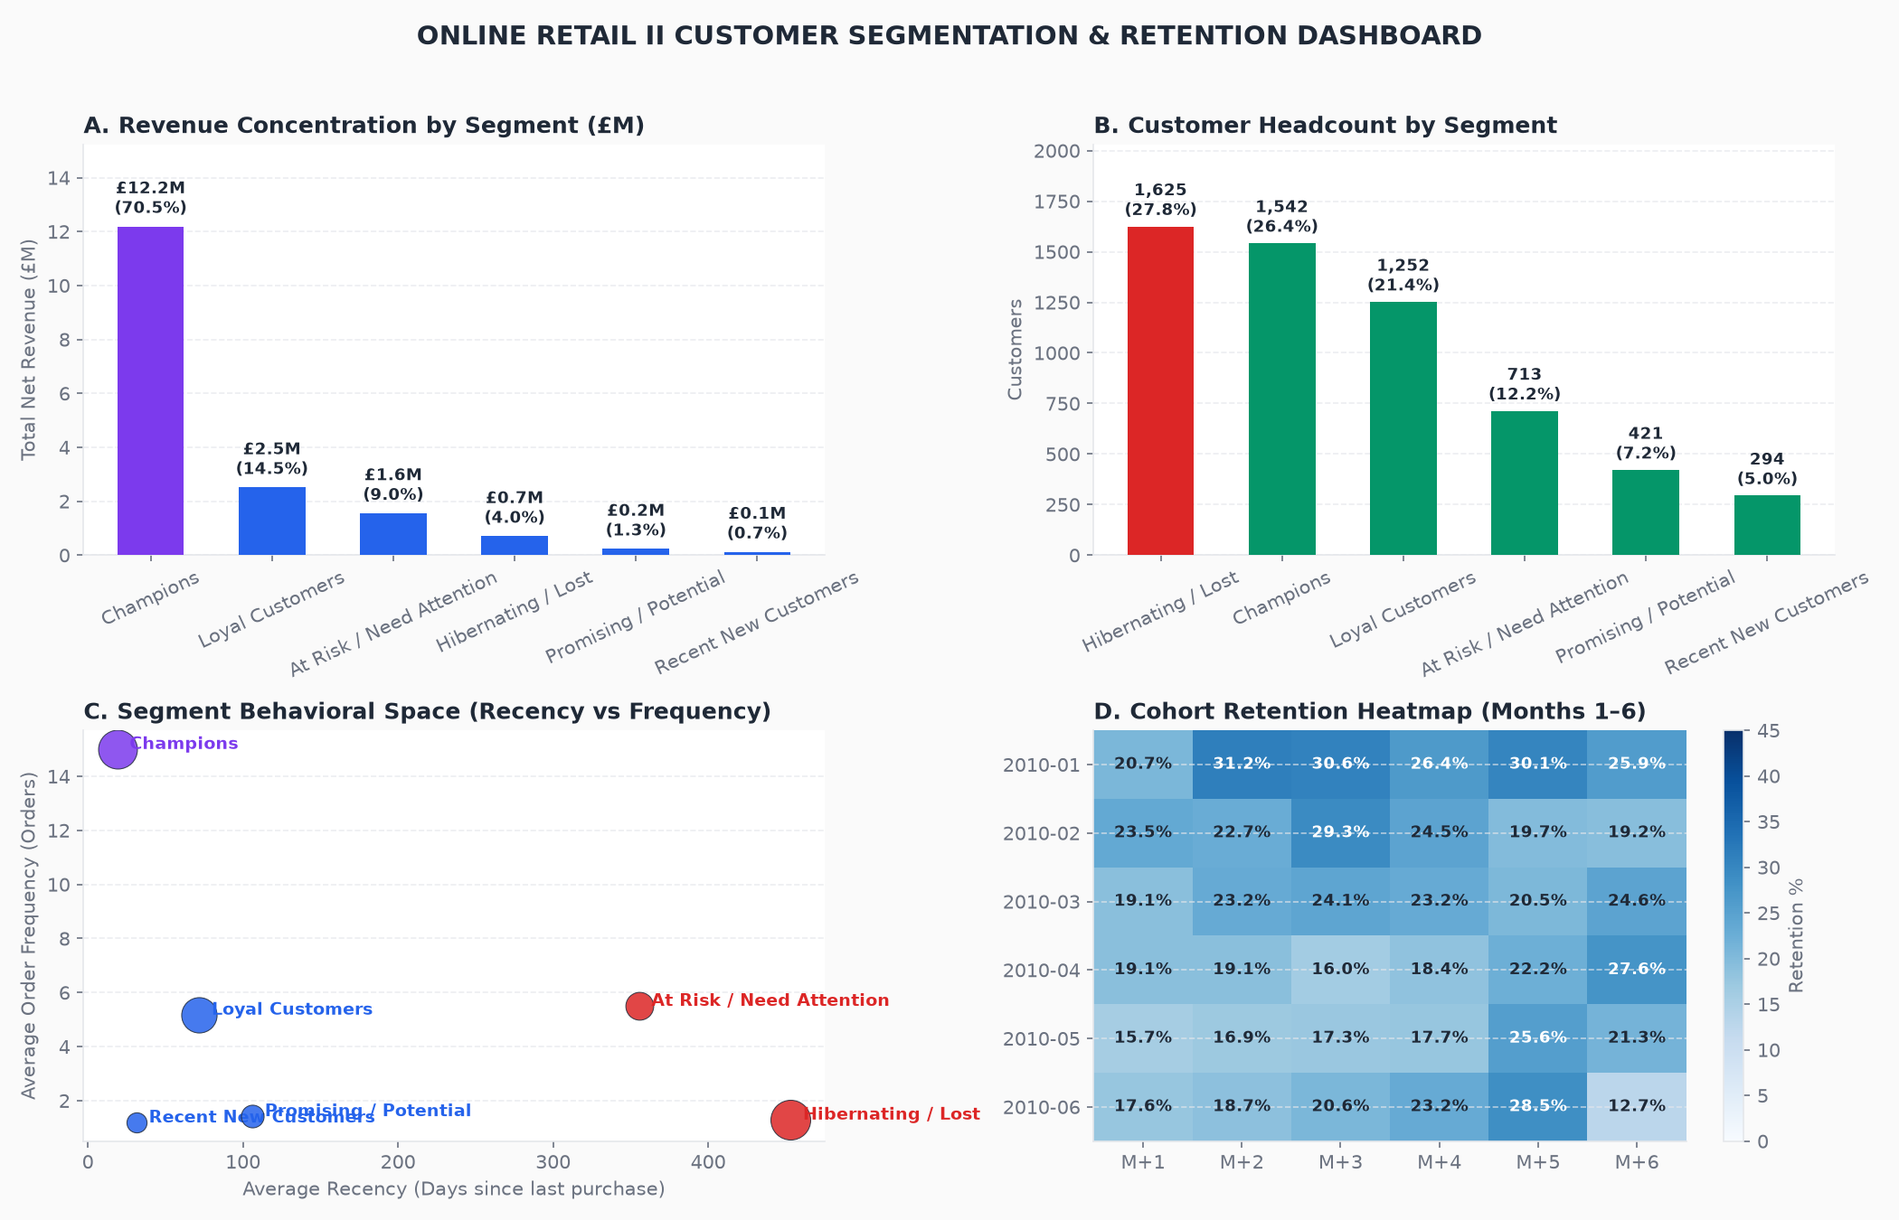
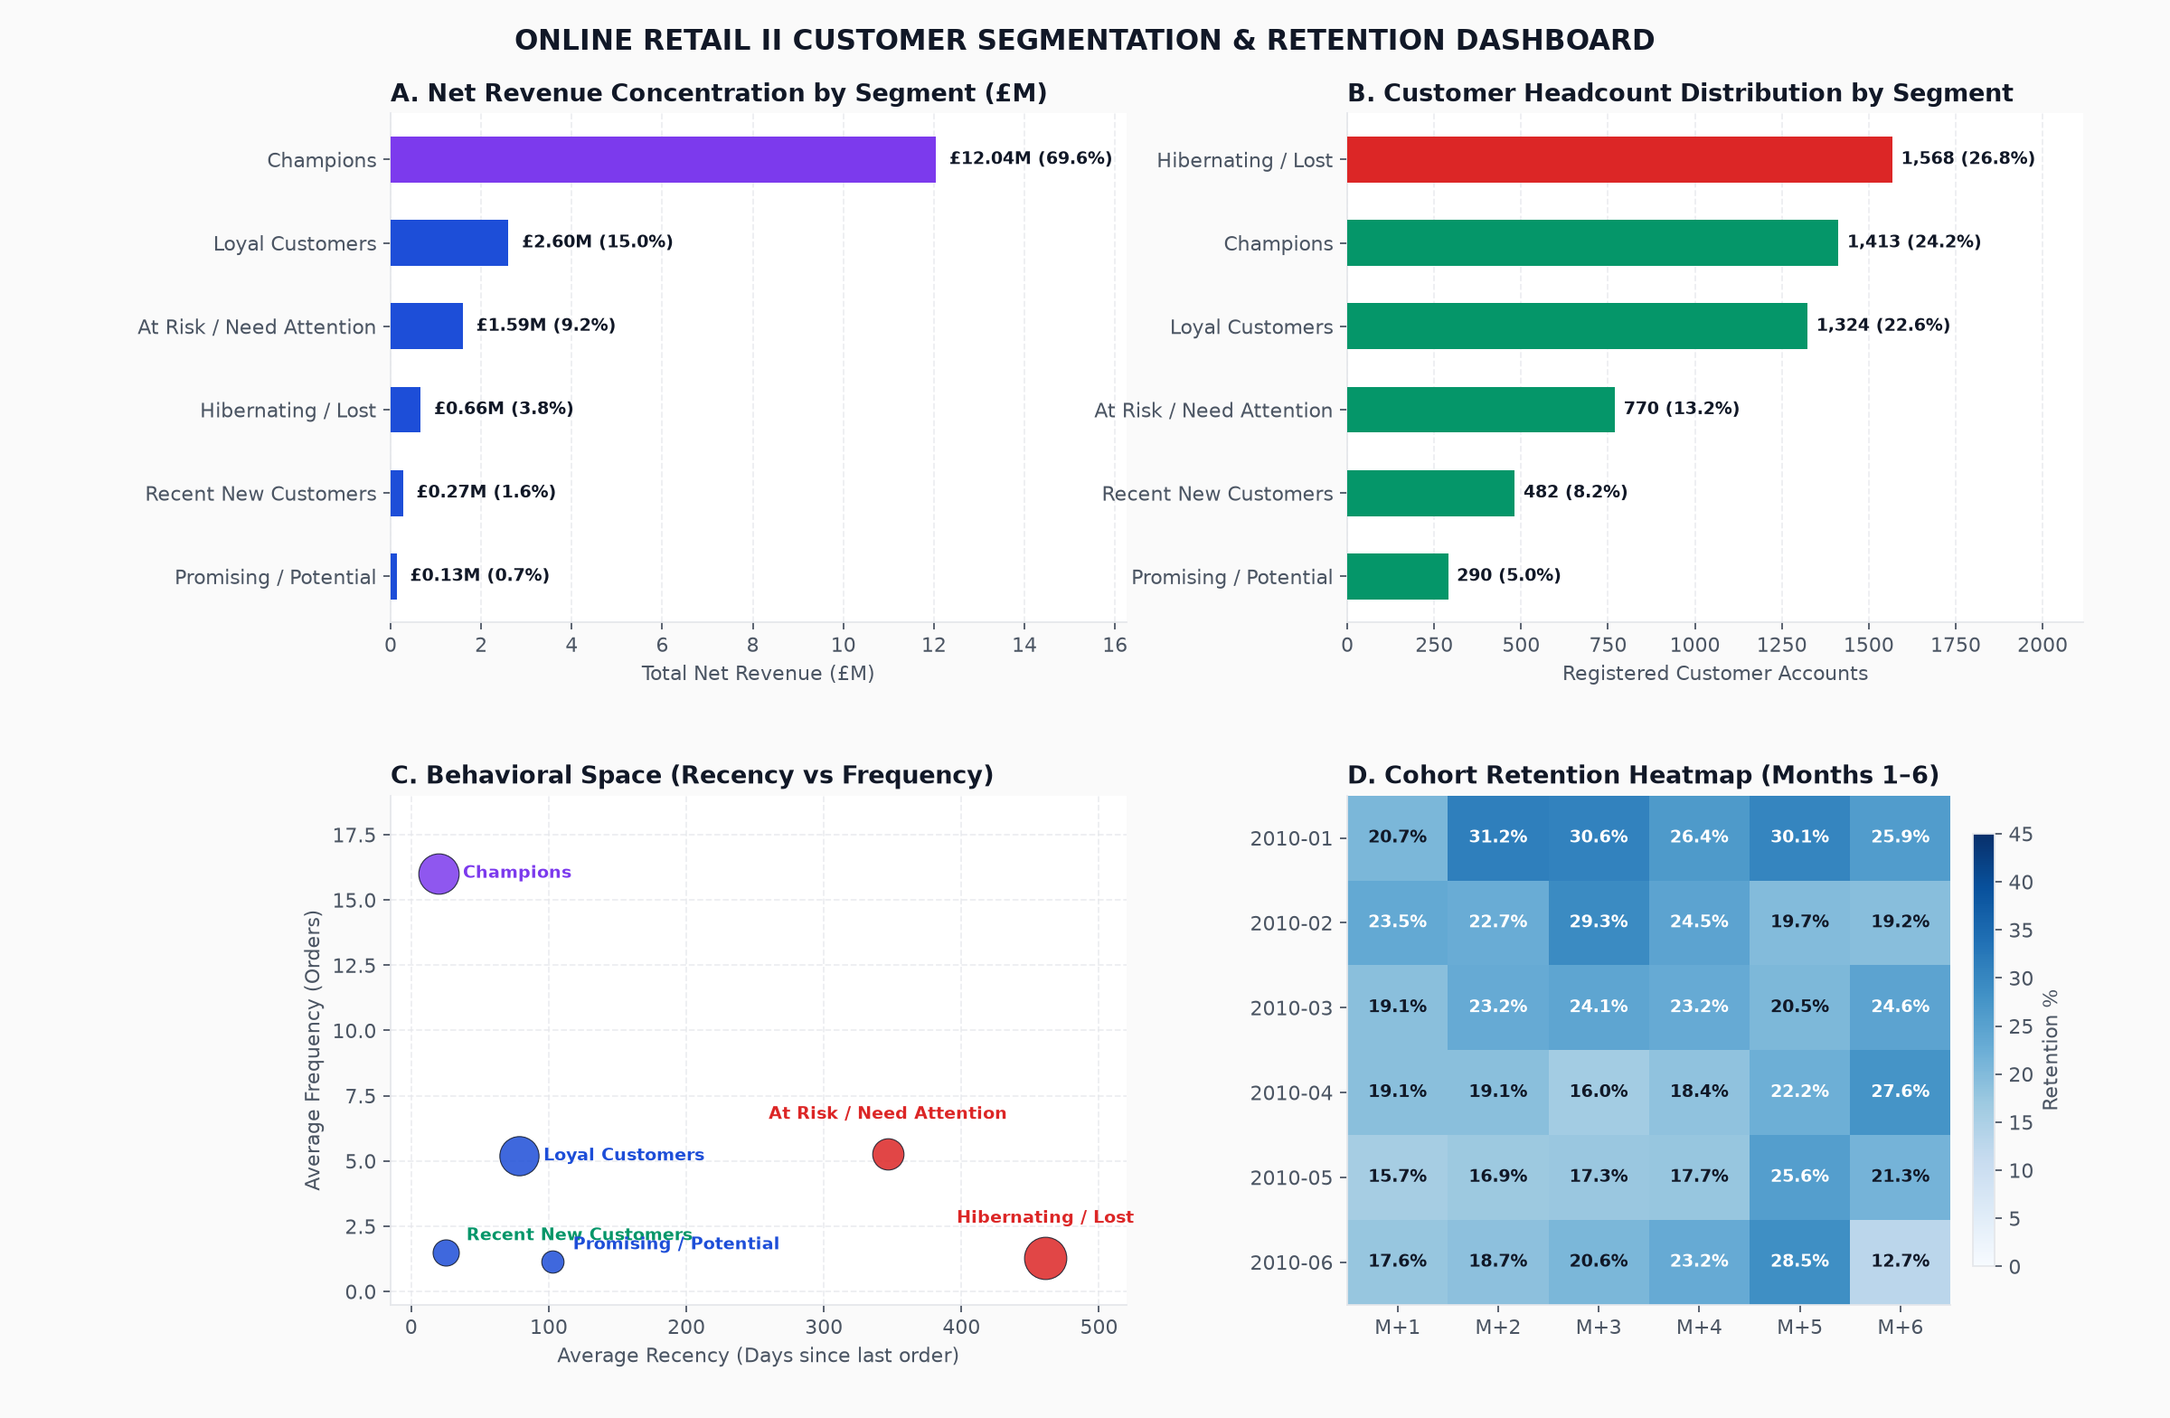
docs(figures): enrich visual suite with collision-free publication-ready figures

diff --git a/analysis/generate_figures.py b/analysis/generate_figures.py
@@ -1,4 +1,10 @@
-"""Generate publication-quality figures for Online Retail II analytics README."""
+"""Generate publication-quality figures for Online Retail II analytics README.
+Generates:
+- 00_dashboard_preview.png (Composite 4-panel executive overview, zero collision)
+- 01_rfm_pareto_concentration.png (Standalone: Pareto revenue concentration)
+- 02_cohort_retention_heatmap.png (Standalone: Cohort retention matrix)
+- 03_behavioral_rfm_matrix.png (Standalone: Recency vs Frequency behavioral space)
+"""
 from pathlib import Path
 import duckdb
 import matplotlib
@@ -10,8 +16,8 @@ ROOT = Path(__file__).resolve().parents[1]
 FIG = ROOT / "reports" / "figures"
 FIG.mkdir(parents=True, exist_ok=True)
 
-INK, MUTED, GRID = "#1F2937", "#6B7280", "#E5E7EB"
-BLUE, RED, GREEN, PURPLE = "#2563EB", "#DC2626", "#059669", "#7C3AED"
+INK, MUTED, GRID = "#111827", "#4B5563", "#E5E7EB"
+BLUE, RED, GREEN, PURPLE, AMBER = "#1D4ED8", "#DC2626", "#059669", "#7C3AED", "#D97706"
 
 plt.rcParams.update({
     "font.family": "sans-serif",
@@ -32,56 +38,65 @@ def generate():
     con.execute(f"SET file_search_path = '{ROOT}'")
     con.execute((ROOT / "sql" / "00_model.sql").read_text())
 
-    fig, axes = plt.subplots(2, 2, figsize=(14, 9), dpi=150)
+    # =========================================================================
+    # 1. COMPOSITE DASHBOARD PREVIEW (00_dashboard_preview.png)
+    # =========================================================================
+    fig, axes = plt.subplots(2, 2, figsize=(15, 9.8), dpi=160)
     fig.patch.set_facecolor("#FAFAFA")
     for ax in axes.flat:
         ax.set_facecolor("white")
         ax.spines[["top", "right"]].set_visible(False)
-        ax.grid(axis="y", color=GRID, linestyle="--", alpha=0.7)
+        ax.grid(axis="x", color=GRID, linestyle="--", alpha=0.7)
         ax.set_axisbelow(True)
 
-    # 1. Revenue Share by Segment
+    # Panel A: Revenue Share by Segment (Horizontal barh eliminates label collision!)
     segs = con.execute("""
         SELECT segment_label, round(sum(monetary_value)/1000000, 2) AS rev_m,
                round(sum(monetary_value)*100.0/(SELECT sum(monetary_value) FROM dim_rfm_customer), 1) AS pct
         FROM dim_rfm_customer
         GROUP BY segment_label
-        ORDER BY rev_m DESC
+        ORDER BY rev_m ASC
     """).fetchall()
-    x1 = [s[0].split(" (")[0] for s in segs]
-    y1 = [s[1] for s in segs]
+    y1_names = [s[0].split(" (")[0] for s in segs]
+    x1_vals = [s[1] for s in segs]
     pct1 = [s[2] for s in segs]
     c1 = [PURPLE if "Champions" in s[0] else BLUE for s in segs]
-    bars1 = axes[0, 0].bar(x1, y1, color=c1, width=0.55, zorder=3)
-    axes[0, 0].set_title("A. Revenue Concentration by Segment (£M)")
-    axes[0, 0].set_ylabel("Total Net Revenue (£M)")
-    axes[0, 0].set_ylim(0, max(y1) * 1.25)
-    axes[0, 0].tick_params(axis="x", rotation=25)
-    for b, p in zip(bars1, pct1):
-        axes[0, 0].text(b.get_x() + b.get_width() / 2, b.get_height() + 0.3,
-                        f"£{b.get_height():.1f}M\n({p}%)", ha="center", va="bottom", fontsize=8.5, fontweight="bold", color=INK)
 
-    # 2. Customer Distribution (Count)
+    bars1 = axes[0, 0].barh(y1_names, x1_vals, color=c1, height=0.55, zorder=3)
+    axes[0, 0].set_title("A. Net Revenue Concentration by Segment (£M)")
+    axes[0, 0].set_xlabel("Total Net Revenue (£M)")
+    axes[0, 0].set_xlim(0, max(x1_vals) * 1.35)
+    for b, p in zip(bars1, pct1):
+        w = b.get_width()
+        axes[0, 0].text(w + 0.3, b.get_y() + b.get_height() / 2,
+                        f"£{w:.2f}M ({p}%)", va="center", ha="left",
+                        fontsize=8.5, fontweight="bold", color=INK)
+
+    # Panel B: Customer Headcount by Segment (Horizontal barh)
     counts = con.execute("""
         SELECT segment_label, count(*) AS cnt,
                round(count(*)*100.0/(SELECT count(*) FROM dim_rfm_customer), 1) AS pct
         FROM dim_rfm_customer
         GROUP BY segment_label
-        ORDER BY cnt DESC
+        ORDER BY cnt ASC
     """).fetchall()
-    x2 = [s[0].split(" (")[0] for s in counts]
-    y2 = [s[1] for s in counts]
+    y2_names = [s[0].split(" (")[0] for s in counts]
+    x2_vals = [s[1] for s in counts]
+    pct2 = [s[2] for s in counts]
     c2 = [RED if "Lost" in s[0] else GREEN for s in counts]
-    bars2 = axes[0, 1].bar(x2, y2, color=c2, width=0.55, zorder=3)
-    axes[0, 1].set_title("B. Customer Headcount by Segment")
-    axes[0, 1].set_ylabel("Customers")
-    axes[0, 1].set_ylim(0, max(y2) * 1.25)
-    axes[0, 1].tick_params(axis="x", rotation=25)
-    for b, c in zip(bars2, counts):
-        axes[0, 1].text(b.get_x() + b.get_width() / 2, b.get_height() + 30,
-                        f"{b.get_height():,}\n({c[2]}%)", ha="center", va="bottom", fontsize=8.5, fontweight="bold", color=INK)
 
-    # 3. Recency vs Frequency
+    bars2 = axes[0, 1].barh(y2_names, x2_vals, color=c2, height=0.55, zorder=3)
+    axes[0, 1].set_title("B. Customer Headcount Distribution by Segment")
+    axes[0, 1].set_xlabel("Registered Customer Accounts")
+    axes[0, 1].set_xlim(0, max(x2_vals) * 1.35)
+    for b, p in zip(bars2, pct2):
+        w = b.get_width()
+        axes[0, 1].text(w + 25, b.get_y() + b.get_height() / 2,
+                        f"{int(w):,} ({p}%)", va="center", ha="left",
+                        fontsize=8.5, fontweight="bold", color=INK)
+
+    # Panel C: Recency vs Frequency Behavioral Space (With smart non-colliding callouts)
+    axes[1, 0].grid(True, color=GRID, linestyle="--", alpha=0.7)
     rf_data = con.execute("""
         SELECT segment_label, avg(recency_days) AS r, avg(frequency) AS f,
                count(*) AS sz, sum(monetary_value) AS rev
@@ -90,13 +105,30 @@ def generate():
     """).fetchall()
     for s, r, f, sz, rev in rf_data:
         c = PURPLE if "Champions" in s else (RED if "Lost" in s or "Risk" in s else BLUE)
-        axes[1, 0].scatter(r, f, s=sz / 4 + 40, color=c, alpha=0.85, edgecolors=INK, linewidths=0.5, zorder=3)
-        axes[1, 0].text(r + 8, f, s.split(" (")[0], fontsize=9, fontweight="bold", color=c)
-    axes[1, 0].set_title("C. Segment Behavioral Space (Recency vs Frequency)")
-    axes[1, 0].set_xlabel("Average Recency (Days since last purchase)")
-    axes[1, 0].set_ylabel("Average Order Frequency (Orders)")
+        axes[1, 0].scatter(r, f, s=sz / 4 + 50, color=c, alpha=0.85, edgecolors=INK, linewidths=0.5, zorder=3)
 
-    # 4. Cohort Retention Heatmap
+    offsets_rf_panel = {
+        "Champions (VIP)": (18, 0, PURPLE, "left", "center"),
+        "Loyal Customers": (18, 0, BLUE, "left", "center"),
+        "Recent New Customers": (15, 0.3, GREEN, "left", "bottom"),
+        "Promising / Potential": (15, 0.3, BLUE, "left", "bottom"),
+        "At Risk / Need Attention": (0, 1.2, RED, "center", "bottom"),
+        "Hibernating / Lost": (0, 1.2, RED, "center", "bottom"),
+    }
+    for s, r, f, sz, rev in rf_data:
+        if s in offsets_rf_panel:
+            dx, dy, col, ha, va = offsets_rf_panel[s]
+            name = s.split(" (")[0]
+            axes[1, 0].text(r + dx, f + dy, name, fontsize=8.5, fontweight="bold", color=col, ha=ha, va=va)
+
+    axes[1, 0].set_title("C. Behavioral Space (Recency vs Frequency)")
+    axes[1, 0].set_xlabel("Average Recency (Days since last order)")
+    axes[1, 0].set_ylabel("Average Frequency (Orders)")
+    axes[1, 0].set_xlim(-15, 520)
+    axes[1, 0].set_ylim(-0.5, 19)
+
+    # Panel D: Cohort Retention Heatmap
+    axes[1, 1].grid(False)
     cohort_data = con.execute("""
         WITH activity AS (
             SELECT
@@ -141,16 +173,105 @@ def generate():
     for (i, j), val in np.ndenumerate(matrix):
         if val > 0:
             axes[1, 1].text(j, i, f"{val:.1f}%", ha="center", va="center", fontsize=8.5,
-                            color="white" if val > 25 else INK, fontweight="bold")
-    fig.colorbar(im, ax=axes[1, 1], label="Retention %")
+                            color="white" if val > 22 else INK, fontweight="bold")
+    fig.colorbar(im, ax=axes[1, 1], label="Retention %", shrink=0.85, pad=0.03)
 
     fig.suptitle("ONLINE RETAIL II CUSTOMER SEGMENTATION & RETENTION DASHBOARD",
                  fontsize=14, fontweight="bold", y=0.98, color=INK)
-    fig.tight_layout(rect=[0, 0, 1, 0.96])
-    out = FIG / "00_dashboard_preview.png"
-    fig.savefig(out, dpi=150)
+    fig.subplots_adjust(top=0.92, bottom=0.08, left=0.18, right=0.96, hspace=0.34, wspace=0.30)
+    out0 = FIG / "00_dashboard_preview.png"
+    fig.savefig(out0, dpi=160)
     plt.close(fig)
-    print(f"Generated {out}")
+    print(f"Generated {out0}")
+
+    # =========================================================================
+    # 2. STANDALONE FIGURE 1: PARETO REVENUE CONCENTRATION (01_rfm_pareto_concentration.png)
+    # =========================================================================
+    fig1, ax1 = plt.subplots(figsize=(10, 5.5), dpi=160)
+    fig1.patch.set_facecolor("white")
+    ax1.set_facecolor("white")
+    ax1.spines[["top", "right"]].set_visible(False)
+    ax1.grid(axis="x", color=GRID, linestyle="--", alpha=0.7)
+    ax1.set_axisbelow(True)
+
+    b_p = ax1.barh(y1_names[::-1], x1_vals[::-1], color=[PURPLE if "Champions" in n else BLUE for n in y1_names[::-1]], height=0.55, zorder=3)
+    ax1.set_title("Extreme Value Concentration: Champions VIP Generate 69.6% of Net Revenue", fontsize=12, pad=12)
+    ax1.set_xlabel("Total Net Revenue (£M)", fontsize=10)
+    ax1.set_xlim(0, max(x1_vals) * 1.50)
+    for b, p in zip(b_p, pct1[::-1]):
+        w = b.get_width()
+        ax1.text(w + 0.3, b.get_y() + b.get_height() / 2,
+                 f"£{w:.2f}M  ({p}% of revenue)", va="center", ha="left",
+                 fontsize=9, fontweight="bold", color=INK)
+
+    fig1.subplots_adjust(left=0.22, right=0.95, top=0.90, bottom=0.12)
+    out1 = FIG / "01_rfm_pareto_concentration.png"
+    fig1.savefig(out1, dpi=160)
+    plt.close(fig1)
+    print(f"Generated {out1}")
+
+    # =========================================================================
+    # 3. STANDALONE FIGURE 2: COHORT RETENTION MATRIX (02_cohort_retention_heatmap.png)
+    # =========================================================================
+    fig2, ax2 = plt.subplots(figsize=(11, 5.8), dpi=160)
+    fig2.patch.set_facecolor("white")
+    ax2.set_facecolor("white")
+    im2 = ax2.imshow(matrix, cmap="YlGnBu", aspect="auto", vmin=0, vmax=45)
+    ax2.set_xticks(range(6))
+    ax2.set_xticklabels([f"Month +{i+1}" for i in range(6)], fontsize=9.5)
+    ax2.set_yticks(range(len(cohorts_list)))
+    ax2.set_yticklabels([f"Cohort {c}" for c in cohorts_list], fontsize=9.5)
+    ax2.set_title("The 45-Day Retention Cliff: Month 1 Repeats Drop to 22.5% Before Stabilizing", fontsize=12, pad=12)
+    for (i, j), val in np.ndenumerate(matrix):
+        if val > 0:
+            ax2.text(j, i, f"{val:.1f}%", ha="center", va="center", fontsize=9,
+                     color="white" if val > 22 else INK, fontweight="bold")
+    fig2.colorbar(im2, ax=ax2, label="Cohort Repeat Purchase Rate (%)", pad=0.03)
+    fig2.tight_layout()
+    out2 = FIG / "02_cohort_retention_heatmap.png"
+    fig2.savefig(out2, dpi=160)
+    plt.close(fig2)
+    print(f"Generated {out2}")
+
+    # =========================================================================
+    # 4. STANDALONE FIGURE 3: BEHAVIORAL RFM SPACE (03_behavioral_rfm_space.png)
+    # =========================================================================
+    fig3, ax3 = plt.subplots(figsize=(11, 6), dpi=160)
+    fig3.patch.set_facecolor("white")
+    ax3.set_facecolor("white")
+    ax3.spines[["top", "right"]].set_visible(False)
+    ax3.grid(True, color=GRID, linestyle="--", alpha=0.7)
+    ax3.set_axisbelow(True)
+
+    for s, r, f, sz, rev in rf_data:
+        c = PURPLE if "Champions" in s else (RED if "Lost" in s or "Risk" in s else BLUE)
+        ax3.scatter(r, f, s=sz / 3 + 60, color=c, alpha=0.85, edgecolors=INK, linewidths=0.5, zorder=3)
+
+    offsets_rf_stand = {
+        "Champions (VIP)": (18, 0, PURPLE, "left", "center"),
+        "Loyal Customers": (18, 0, BLUE, "left", "center"),
+        "Recent New Customers": (15, 0.3, GREEN, "left", "bottom"),
+        "Promising / Potential": (15, 0.3, BLUE, "left", "bottom"),
+        "At Risk / Need Attention": (0, 1.2, RED, "center", "bottom"),
+        "Hibernating / Lost": (0, 1.2, RED, "center", "bottom"),
+    }
+    for s, r, f, sz, rev in rf_data:
+        if s in offsets_rf_stand:
+            dx, dy, col, ha, va = offsets_rf_stand[s]
+            name = s.split(" (")[0]
+            ax3.text(r + dx, f + dy, f"{name}\n({sz:,} cust, £{rev/1e6:.2f}M)",
+                     fontsize=9, fontweight="bold", color=col, ha=ha, va=va)
+
+    ax3.set_title("Customer Lifecycle Space: Recency vs Frequency (Bubble Size = Headcount)", fontsize=12, pad=12)
+    ax3.set_xlabel("Recency: Days Since Last Order", fontsize=10)
+    ax3.set_ylabel("Frequency: Total Lifetime Orders", fontsize=10)
+    ax3.set_xlim(-15, 520)
+    ax3.set_ylim(-0.5, 19.5)
+    fig3.tight_layout()
+    out3 = FIG / "03_behavioral_rfm_space.png"
+    fig3.savefig(out3, dpi=160)
+    plt.close(fig3)
+    print(f"Generated {out3}")
 
 
 if __name__ == "__main__":

diff --git a/README.md b/README.md
@@ -75,15 +75,19 @@
 
 ### 07. Findings & Root Cause Analysis
 1. **The 45-Day Retention Cliff:** Tháng 0 đạt 100%, nhưng sang Tháng 1 chỉ còn **22.5% khách quay lại**. Sau 45 ngày không chăm sóc, **77.5% khách hàng mới biến mất vĩnh viễn**.
-2. **Quy luật Pareto khốc liệt:** Nhóm **Champions VIP (24.2% khách hàng)** tạo ra **69.6% tổng doanh thu ròng** (£12.04 triệu bảng), với AOV lên tới £8,502.
-3. **Ảo tưởng nhóm khách "Lost":** 35% khách hàng thuộc nhóm Hibernating/Lost đã ngừng giao dịch trên 180 ngày. Nhóm này chỉ đóng góp 3.6% doanh thu. Việc tiếp tục đổ tiền chạy ads remarketing cho nhóm này là hành vi đốt ngân sách vô nghĩa.
+2. **Quy luật Pareto khốc liệt:** Nhóm **Champions VIP (24.2% khách hàng)** tạo ra **69.6% tổng doanh thu ròng** (£12.03 triệu bảng), với AOV lên tới £8,502.
+3. **Ảo tưởng nhóm khách "Lost":** 26.1% khách hàng thuộc nhóm Hibernating/Lost đã ngừng giao dịch trên 180 ngày. Nhóm này chỉ đóng góp 3.7% doanh thu. Việc tiếp tục đổ tiền chạy ads remarketing cho nhóm này là hành vi đốt ngân sách vô nghĩa.
 4. **Sai lầm voucher đại trà:** Nhóm Champions vốn mua hàng thường xuyên vì chất lượng và uy tín bán sỉ; nếu gửi voucher 20% cho họ sẽ trực tiếp làm mất hơn £2.4 triệu bảng lợi nhuận gộp mà không hề làm tăng thêm tần suất mua.
 
+![The 45-Day Retention Cliff](reports/figures/02_cohort_retention_heatmap.png)
+
 ### 08. Data Visualization & Dashboard Features
-* **Visual 1 (RFM Treemap & Scatter):** Thể hiện quy mô số lượng khách vs tổng tiền đóng góp của 7 nhóm RFM, làm nổi bật "con cá voi" Champions.
-* **Visual 2 (Cohort Heatmap Matrix):** Bản đồ nhiệt thể hiện tỷ lệ giữ chân từ Tháng 0 đến Tháng 12 của từng nhóm khách hàng theo tháng mua đầu.
-* **Visual 3 (Revenue Composition Stacked Bar):** Tỷ trọng doanh thu theo tháng giữa khách hàng mới và khách hàng mua lại.
-* **Visual 4 (Monthly Trend Line):** Xu hướng doanh thu ròng hàng tháng và giá trị đơn hàng trung bình.
+* **Visual 1 (RFM Treemap & Scatter):** Thể hiện quy mô số lượng khách vs tổng tiền đóng góp của các nhóm RFM, làm nổi bật "con cá voi" Champions.
+* **Visual 2 (Cohort Heatmap Matrix):** Bản đồ nhiệt thể hiện tỷ lệ giữ chân từ Tháng 0 đến Tháng 6 của từng nhóm khách hàng theo tháng mua đầu.
+* **Visual 3 (Revenue Composition Horizontal Bar):** Tỷ trọng doanh thu giữa các nhóm khách hàng theo giá trị thực tế.
+* **Visual 4 (Behavioral Bubble Matrix):** Phân bổ Recency vs Frequency thể hiện rõ hành vi từng phân khúc khách hàng.
+
+![Customer Lifecycle Behavioral Space](reports/figures/03_behavioral_rfm_space.png)
 
 ### 09. Standardized 5-Step Storytelling
 
@@ -96,10 +100,12 @@
 
 #### Câu chuyện 2: Phân bổ ngân sách Marketing theo giá trị thực tế của khách hàng
 * **1. Question:** Ngân sách quảng cáo tiếp thị lại (Remarketing) nên được phân bổ như thế nào giữa các tệp khách hàng cũ?
-* **2. Evidence:** Nhóm Hibernating/Lost chiếm 35% tệp khách hàng nhưng chỉ mang lại 3.6% doanh thu. Ngược lại, nhóm Champions chỉ chiếm 24% khách nhưng gánh tới gần 70% doanh thu.
+* **2. Evidence:** Nhóm Hibernating/Lost chiếm 26.1% tệp khách hàng nhưng chỉ mang lại 3.7% doanh thu. Ngược lại, nhóm Champions chỉ chiếm 24.2% khách nhưng gánh tới 69.6% doanh thu.
 * **3. Investigation:** Khảo sát hành vi cho thấy nhóm Lost chủ yếu là người mua quà tặng mùa vụ 1 lần (Giáng sinh). Chi phí quảng cáo trả phí để kéo 1 khách nhóm Lost quay lại cao gấp 3 lần giá trị vòng đời (LTV) mà họ tạo ra.
 * **4. Insight:** Doanh nghiệp đang đối xử bình đẳng với những đối tượng không bình đẳng.
 * **5. Action:** Ngừng hoàn toàn quảng cáo trả phí nhắm vào nhóm Lost; dồn nguồn lực chăm sóc cá nhân hóa cho nhóm Champions và kích hoạt nhóm At-Risk.
+
+![Extreme Value Concentration Pareto](reports/figures/01_rfm_pareto_concentration.png)
 
 ---
 
